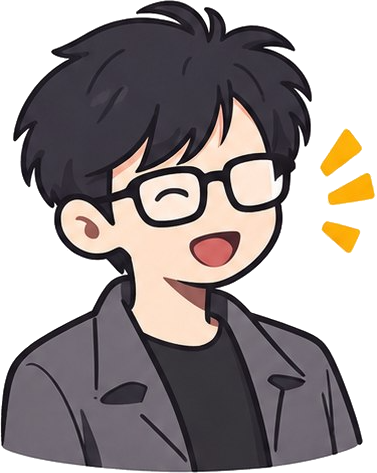
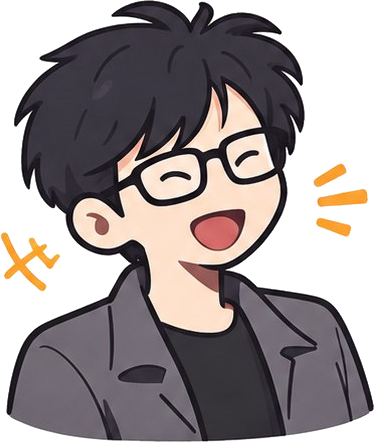
new home

diff --git a/src/data/timeline.ts b/src/data/timeline.ts
@@ -1,0 +1,55 @@
+export type Milestone = {
+    year: string;
+    title: string;
+    text: string;
+    href?: string;
+    highlight?: boolean;
+};
+
+// oldest first
+export const timeline: Milestone[] = [
+    {
+        year: "2018",
+        title: "Project pertama di Erajaya Group",
+        text: "Vendor Portal dengan booking gudang, eReporting dan Report Generator, enhancement OS Ticket, sampai CSO untuk iBox.",
+        href: "/project/vendor-portal",
+    },
+    {
+        year: "2019",
+        title: "Dari faktur sampai panggung undian",
+        text: "EMA untuk cleansing IMEI ke Kemenperin, Digital Receipt dari POS, dan minigame undian Eraversary & Samsung Karnaval.",
+        href: "/project/erajaya-modular-application",
+    },
+    {
+        year: "2021",
+        title: "Masuk ke dunia audit",
+        text: "Maintain dan kembangkan AMS milik tim Internal Audit, serta user management untuk DEP bersama Apple.",
+        href: "/project/audit-management-system",
+    },
+    {
+        year: "2022",
+        title: "🏆 Juara 3 Erajaya Achievement Award",
+        text: "ERCAS, aplikasi risk analysis dengan heatmap risiko untuk tim Audit.",
+        href: "/project/ercas",
+        highlight: true,
+    },
+    {
+        year: "2023",
+        title: "RIFOS untuk JD Sports Indonesia",
+        text: "Cek stok & harga realtime di toko: Laravel, WebSocket, importer Rust dari SAP, autoscale di AWS.",
+        href: "/project/rifos",
+    },
+    {
+        year: "2025",
+        title: "DevOps TaskForce → lahir divisi DevOps",
+        text: "CI/CD Jenkins, Nexus, Docker, gitflow & trunk based. Di tahun yang sama: ePOD Mobile native Kotlin.",
+        href: "/project/devops-taskforce",
+        highlight: true,
+    },
+    {
+        year: "2026",
+        title: "Platform terpusat & SRE",
+        text: "UMS, Workflow Management, Nexus, dan gateway PPS dengan Golang, plus pilot SRE dengan OpenTelemetry.",
+        href: "/project/user-management-services",
+    },
+];

diff --git a/src/site.config.ts b/src/site.config.ts
@@ -121,7 +121,7 @@ const siteConfig: SiteConfig = {
         // },
         {
             text: 'Instagram',
-            href: 'https://instagram.com/'
+            href: 'https://instagram.com/taufiqtab'
         },
         {
             text: 'X/Twitter',
@@ -172,7 +172,7 @@ const siteConfig: SiteConfig = {
     //     formUrl: '#'
     // },
     postsPerPage: 12,
-    recentPostLimit: 3
+    recentPostLimit: 4
 };
 
 export default siteConfig;
